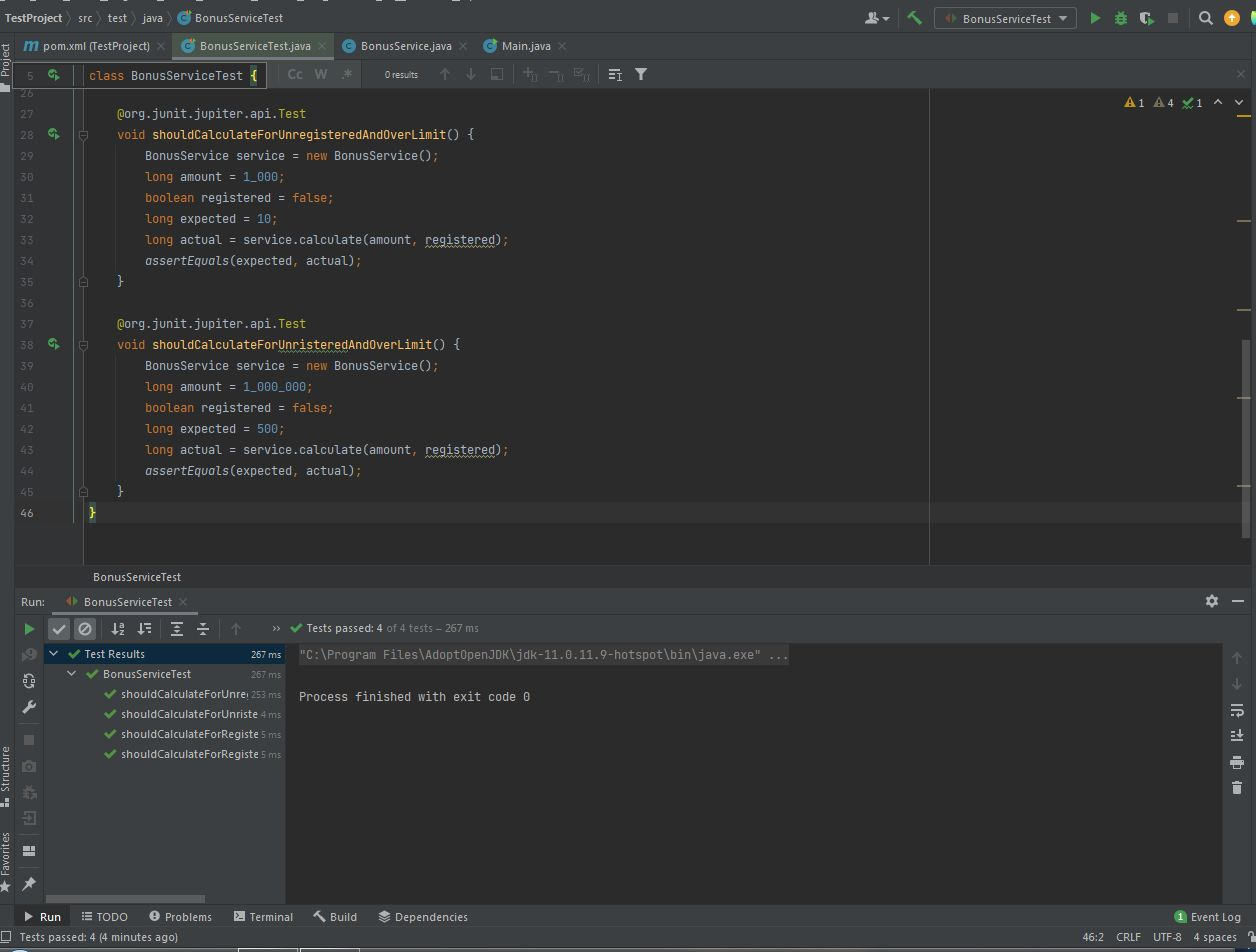
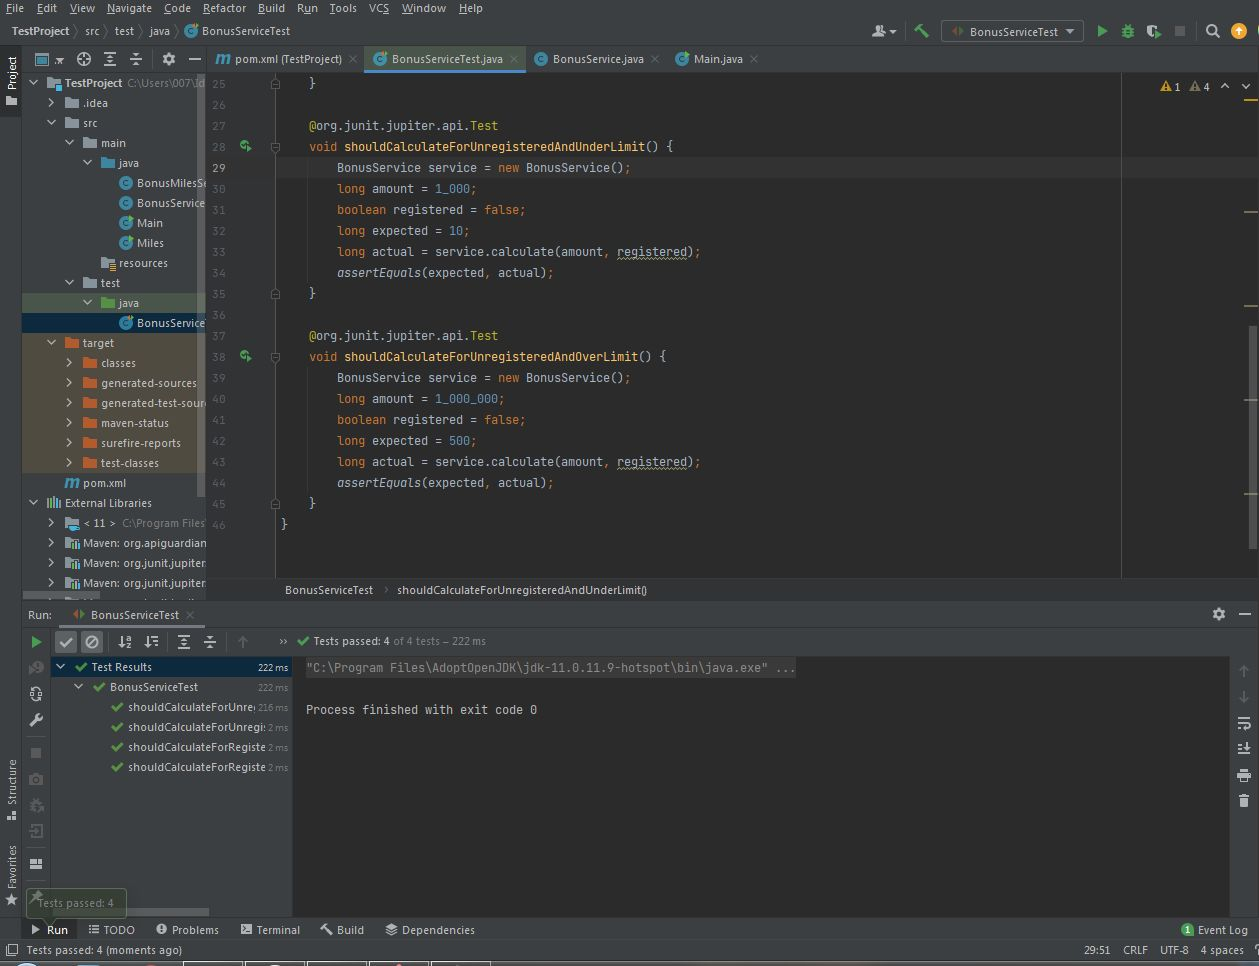
Fixed

diff --git a/BonusServiceTest.java b/BonusServiceTest.java
@@ -25,7 +25,7 @@ class BonusServiceTest {
     }
 
     @org.junit.jupiter.api.Test
-    void shouldCalculateForUnregisteredAndOverLimit() {
+    void shouldCalculateForUnregisteredAndUnderLimit() {
         BonusService service = new BonusService();
         long amount = 1_000;
         boolean registered = false;
@@ -35,7 +35,7 @@ class BonusServiceTest {
     }
 
     @org.junit.jupiter.api.Test
-    void shouldCalculateForUnristeredAndOverLimit() {
+    void shouldCalculateForUnregisteredAndOverLimit() {
         BonusService service = new BonusService();
         long amount = 1_000_000;
         boolean registered = false;
